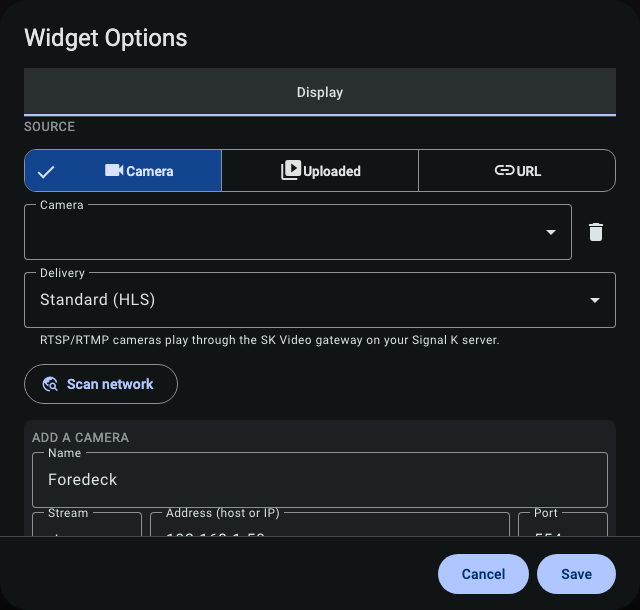
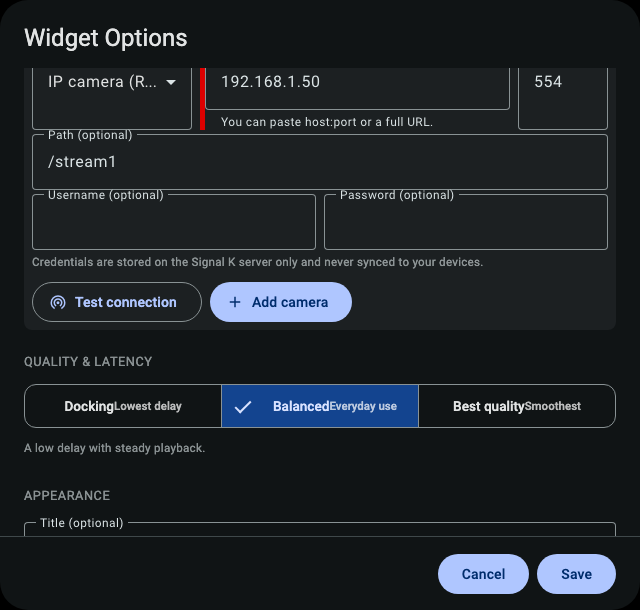
docs: refresh README screenshots for the updated video UI

diff --git a/e2e/screenshots/ux-states.spec.ts b/e2e/screenshots/ux-states.spec.ts
@@ -1,0 +1,271 @@
+import { test, type Page } from '@playwright/test';
+import { mkdirSync } from 'node:fs';
+import { join } from 'node:path';
+
+// Captures the extra widget/config states the docs shots miss, as input to the UX review.
+// Reuses the same KIP-bootstrap tricks as capture.spec.ts (Load Demo first-run fix + per-nav
+// dashboardsConfig re-injection + serviceWorkers:block from screenshots.config.ts).
+
+const KIP = '/@mxtommy/kip/index.html';
+const OUT = join(__dirname, 'out');
+mkdirSync(OUT, { recursive: true });
+const DIALOG = 'mat-dialog-container';
+
+const SNAPSHOT = { embedTelemetry: true, embedLocation: true, defaultDestination: 'download' };
+
+function dashboardsJson(displayName: string, video: Record<string, unknown> | null) {
+  return JSON.stringify([
+    {
+      id: 'demo',
+      name: 'Underway',
+      icon: 'dashboard-dashboard',
+      collapseSplitShell: true,
+      configuration: [
+        {
+          w: 24,
+          h: 24,
+          x: 0,
+          y: 0,
+          id: 'vid',
+          selector: 'widget-host2',
+          input: {
+            widgetProperties: { type: 'widget-video', uuid: 'vid', config: { displayName, video } },
+          },
+        },
+      ],
+    },
+  ]);
+}
+
+async function bootstrapKip(page: Page) {
+  await page.goto(KIP);
+  try {
+    await page.getByRole('button', { name: 'Load Demo' }).click({ timeout: 8000 });
+    await page.waitForTimeout(2500);
+  } catch {
+    console.log('  (Load Demo not shown — already configured)');
+  }
+}
+
+async function setDashboard(
+  page: Page,
+  displayName: string,
+  video: Record<string, unknown> | null,
+) {
+  await page.addInitScript(
+    (dash) => localStorage.setItem('dashboardsConfig', dash),
+    dashboardsJson(displayName, video),
+  );
+  await page.goto(KIP);
+  await page.evaluate(() => (location.hash = '#/dashboard/0'));
+  await page.waitForTimeout(500);
+}
+
+async function shot(page: Page, name: string, target?: string) {
+  const path = join(OUT, `${name}.png`);
+  try {
+    const loc = target ? page.locator(target).first() : null;
+    if (loc) await loc.waitFor({ timeout: 5000 });
+    await (loc ? loc.screenshot({ path }) : page.screenshot({ path }));
+    console.log(`  captured ${name}.png`);
+  } catch (e) {
+    console.log(`  FAILED ${name}.png: ${(e as Error).message.split('\n')[0]}`);
+  }
+}
+
+async function openConfig(page: Page): Promise<boolean> {
+  await page.keyboard.press('Control+Shift+E');
+  await page.waitForTimeout(800);
+  for (let attempt = 0; attempt < 2; attempt++) {
+    try {
+      if (attempt) await page.keyboard.press('Escape');
+      await page
+        .locator('widget-host2')
+        .first()
+        .dblclick({ position: { x: 36, y: 36 }, timeout: 8000 });
+      await page.locator(DIALOG).first().waitFor({ timeout: 5000 });
+      await page.waitForTimeout(700);
+      return true;
+    } catch (e) {
+      if (attempt)
+        console.log('  config dialog did not open: ' + (e as Error).message.split('\n')[0]);
+    }
+  }
+  return false;
+}
+
+test('capture extra UX states', async ({ page }) => {
+  await page.route('**/plugins/sk-video/cameras/discover', (route) =>
+    route.fulfill({
+      json: {
+        cameras: [
+          {
+            name: 'Foredeck Cam',
+            host: '192.168.1.41',
+            port: 554,
+            onvifUrl: 'http://192.168.1.41/onvif/device_service',
+          },
+          { name: 'Cockpit Dome', host: '192.168.1.42', port: 554 },
+          { name: 'Engine Bay', host: '192.168.1.43', port: 8554 },
+        ],
+      },
+    }),
+  );
+  // Give a camera PTZ presets so the preset menu renders.
+  await page.route('**/plugins/sk-video/cameras/*/ptz/presets', (route) =>
+    route.fulfill({
+      json: {
+        presets: [
+          { token: 'p1', name: 'Dock approach' },
+          { token: 'p2', name: 'Anchor watch' },
+        ],
+      },
+    }),
+  );
+
+  await bootstrapKip(page);
+
+  // --- Empty / unconfigured widget ---
+  await setDashboard(page, 'Foredeck', {
+    sourceKind: 'url',
+    url: null,
+    transport: 'auto',
+    snapshot: SNAPSHOT,
+  });
+  await page.waitForTimeout(1200);
+  await shot(page, 'state-empty', 'widget-video');
+
+  // --- URL source config (the transport dropdown + jargon hint) ---
+  await setDashboard(page, 'Foredeck', {
+    sourceKind: 'url',
+    url: null,
+    transport: 'auto',
+    snapshot: SNAPSHOT,
+  });
+  if (await openConfig(page)) {
+    try {
+      await page.locator('mat-button-toggle:has-text("URL")').click();
+      await page.waitForTimeout(400);
+      await shot(page, 'config-url', DIALOG);
+    } catch (e) {
+      console.log('  config-url: ' + (e as Error).message.split('\n')[0]);
+    }
+    // --- Camera source with the manual-add form expanded (shows Test connection) ---
+    try {
+      await page.locator('mat-button-toggle:has-text("Camera")').click();
+      await page.waitForTimeout(500);
+      await page
+        .getByRole('button', { name: /^Add a camera$/ })
+        .click({ timeout: 3000 })
+        .catch(() => {});
+      await page.waitForTimeout(400);
+      await page
+        .getByText('Test connection', { exact: false })
+        .first()
+        .scrollIntoViewIfNeeded()
+        .catch(() => {});
+      await page.waitForTimeout(300);
+      await shot(page, 'config-camera-manual', DIALOG);
+    } catch (e) {
+      console.log('  config-camera-manual: ' + (e as Error).message.split('\n')[0]);
+    }
+    // --- Appearance section ---
+    try {
+      await page.getByText('Appearance', { exact: false }).first().scrollIntoViewIfNeeded();
+      await page.waitForTimeout(300);
+      await shot(page, 'config-appearance', DIALOG);
+    } catch (e) {
+      console.log('  config-appearance: ' + (e as Error).message.split('\n')[0]);
+    }
+    await page.keyboard.press('Escape').catch(() => {});
+  }
+
+  // --- Snapshot destination menu open (on a playing file source) ---
+  const assetId = await page.evaluate(async () => {
+    try {
+      const r = await fetch('/plugins/sk-video/videos');
+      const { videos } = await r.json();
+      return (
+        (videos as { id: string; size: number }[]).sort((a, b) => b.size - a.size)[0]?.id ?? null
+      );
+    } catch {
+      return null;
+    }
+  });
+  if (assetId) {
+    await setDashboard(page, 'Foredeck', {
+      sourceKind: 'file',
+      fileAssetId: assetId,
+      transport: 'auto',
+      muted: true,
+      autoplay: true,
+      loop: true,
+      objectFit: 'cover',
+      label: 'Foredeck',
+      snapshot: SNAPSHOT,
+    });
+    try {
+      await page.locator('widget-video video').first().waitFor({ timeout: 15000 });
+      await page.waitForTimeout(2500);
+      await shot(page, 'state-titled'); // title bar above the video + centred 44px controls
+      await page.locator('widget-video').first().hover();
+      await page.locator('button[aria-label="Snapshot destination"]').click({ timeout: 5000 });
+      await page.waitForTimeout(400);
+      await shot(page, 'state-snapshot-menu');
+      await page.keyboard.press('Escape').catch(() => {});
+    } catch (e) {
+      console.log('  state-snapshot-menu: ' + (e as Error).message.split('\n')[0]);
+    }
+  }
+
+  // --- Camera source: PTZ presets menu open ---
+  await setDashboard(page, 'Foredeck', {
+    sourceKind: 'camera',
+    cameraId: 'foredeck',
+    transport: 'hls',
+    preset: 'balanced',
+    muted: true,
+    autoplay: true,
+    objectFit: 'cover',
+    snapshot: SNAPSHOT,
+  });
+  try {
+    await page.locator('widget-video').first().waitFor({ timeout: 15000 });
+    await page.waitForTimeout(2000);
+    await page.locator('widget-video').first().hover();
+    await page.locator('button[aria-label="Camera presets"]').click({ timeout: 5000 });
+    await page.waitForTimeout(400);
+    await shot(page, 'state-presets-menu');
+    await page.keyboard.press('Escape').catch(() => {});
+  } catch (e) {
+    console.log('  state-presets-menu: ' + (e as Error).message.split('\n')[0]);
+  }
+
+  // --- Error / reconnecting toast: make the gateway stream fail ---
+  await page.route('**/plugins/sk-video/cameras/*/stream.m3u8', (route) =>
+    route.fulfill({ status: 502, body: 'down' }),
+  );
+  await page.route('**/plugins/sk-video/cameras/*/hls/**', (route) =>
+    route.fulfill({ status: 502, body: 'down' }),
+  );
+  await setDashboard(page, 'Foredeck', {
+    sourceKind: 'camera',
+    cameraId: 'foredeck',
+    transport: 'hls',
+    preset: 'balanced',
+    muted: true,
+    autoplay: true,
+    objectFit: 'cover',
+    snapshot: SNAPSHOT,
+  });
+  try {
+    await page.locator('widget-video').first().waitFor({ timeout: 10000 });
+    // Wait for reconnect attempts to surface the toast.
+    await page.locator('.video-widget__toast').first().waitFor({ timeout: 20000 });
+    await page.waitForTimeout(500);
+    await shot(page, 'state-error', 'widget-video');
+  } catch (e) {
+    console.log('  state-error: ' + (e as Error).message.split('\n')[0]);
+    await shot(page, 'state-error', 'widget-video'); // capture whatever is there
+  }
+});